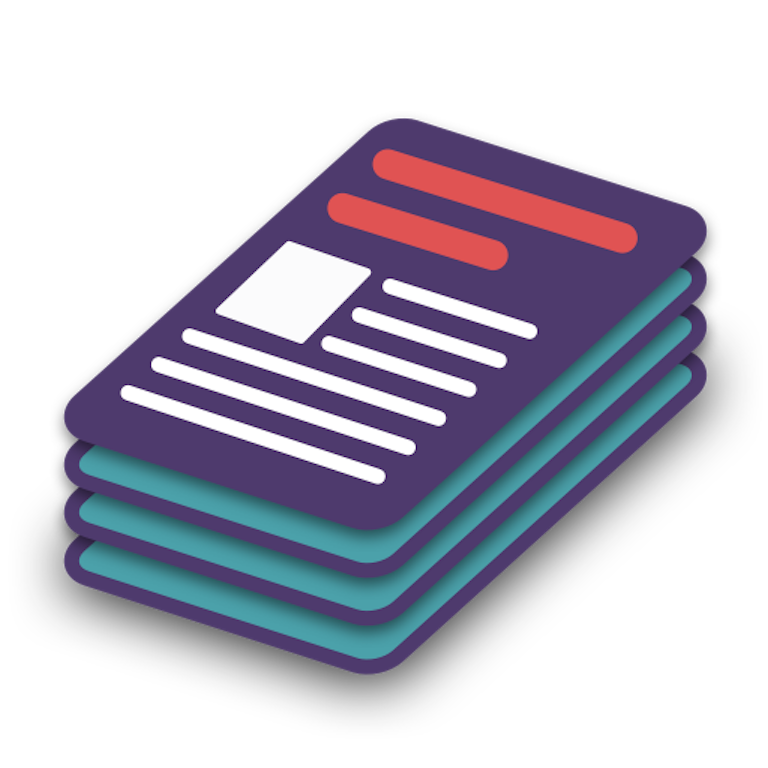
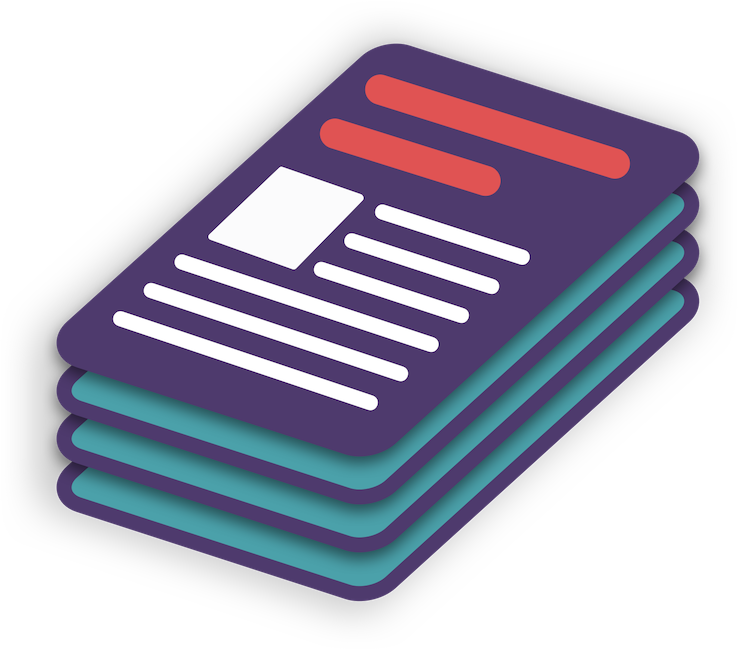
fix: update splash

diff --git a/app/components/Splash.js b/app/components/Splash.js
@@ -108,8 +108,8 @@ export default function Splash () {
         source={require('../assets/images/ream.png')}
         style={{
           // flex: 1,
-          height: 256,
-          width: 256
+          height: 246,
+          width: 217
         }}
       />
       <Animated.View style={{

diff --git a/app/docs/todo.md b/app/docs/todo.md
@@ -1,10 +1,12 @@
 # To Do
 
+- fix splash
 - muting a feed on non-rizzle accounts
 - figure out how to re-enable animated scroll view with keyboard avoiding
-- in-browser js causes render delays! ~~move to item init (with jsdom?)~~
+- in-browser js causes render delays! 
+  - ~~move to item init (with jsdom?)~~
   - only do it on first load, then store fixed up dom on item
-  - while we're at it, call `window.ReactNativeWebView.postMessage('resize:' + getHeight())` at `window.onload` to ensure that images have loaded
+  - ~~while we're at it, call `window.ReactNativeWebView.postMessage('resize:' + getHeight())` at `window.onload` to ensure that images have loaded~~
 - bug: add feed, get items, remove feed, still two items remaining
 - J dropcaps
 - use more built-in fonts?
